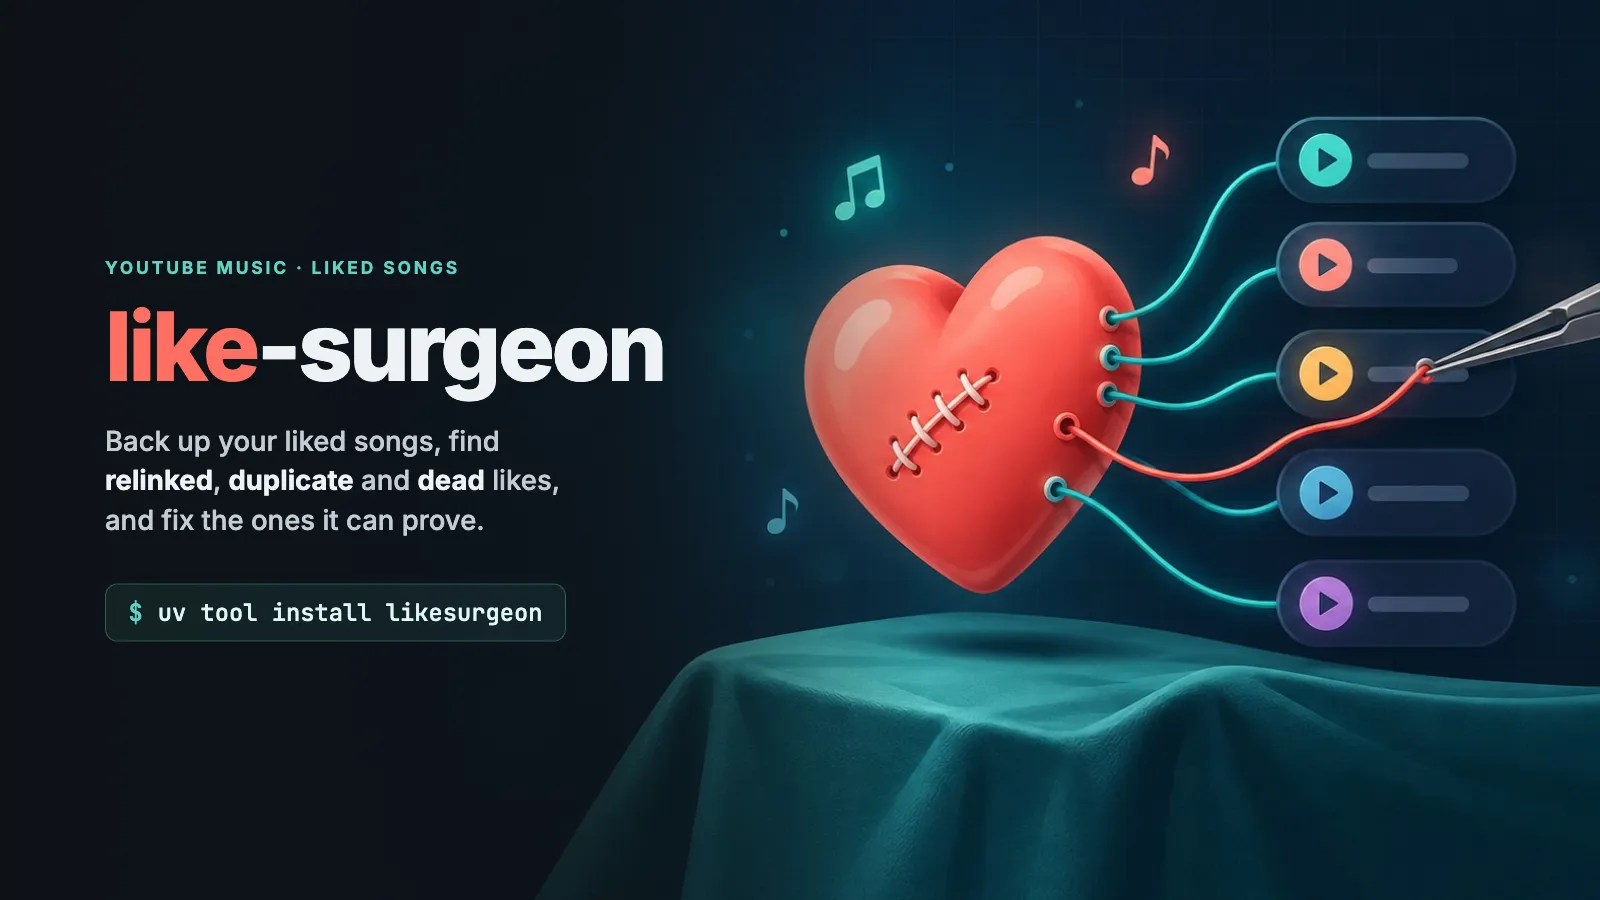
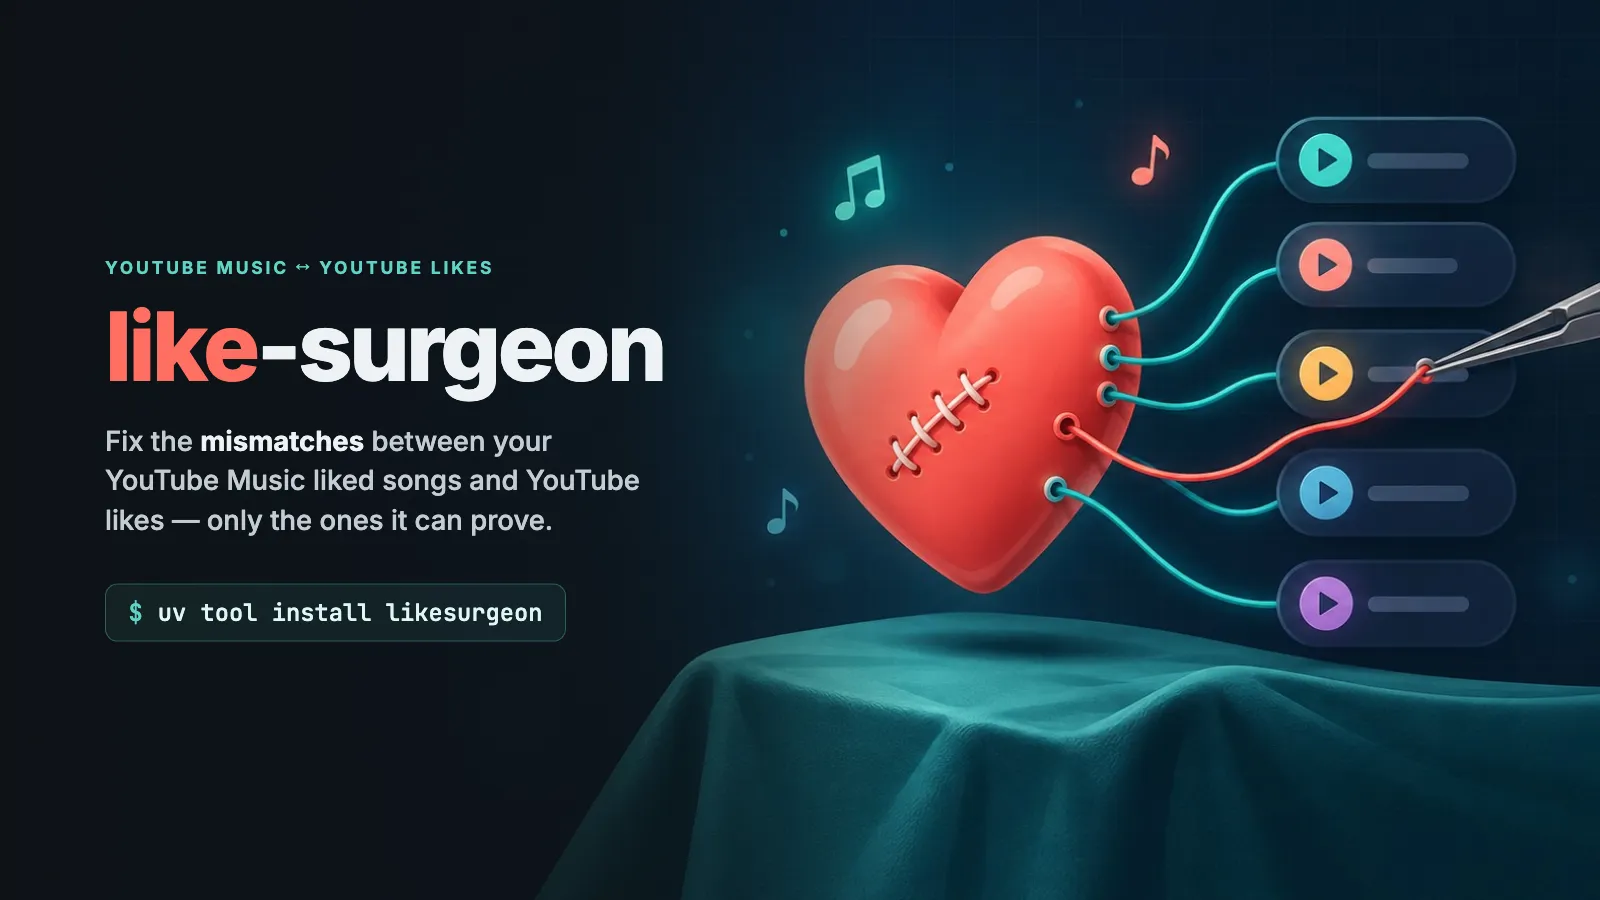
docs(projects): like-surgeon leads with fixing like mismatches, adds 0.12 relike
Description and opening paragraph put the YouTube / YT Music mismatch first
and backup second; the writes section covers the opt-in relike and the
hand run behind it. Card and social image re-rendered with the new tagline.

Changed region(s): [[0.0625, 0.4667, 0.4062, 0.5911], [0.1875, 0.28, 0.3125, 0.3111]]

diff --git a/_projects/like-surgeon.md b/_projects/like-surgeon.md
@@ -1,7 +1,7 @@
 ---
 layout: project
 title: "like-surgeon"
-description: "Local-first CLI that backs up your YouTube Music liked songs, finds relinked, duplicate and dead likes, and fixes the ones it can prove."
+description: "Fix the mismatches between your YouTube Music liked songs and YouTube likes — swapped, duplicated, missing and dead songs. A local CLI that fixes only what it can prove."
 tech_stack: ["Python", "ytmusicapi", "YouTube Data API v3", "SQLite", "SQLAlchemy", "Typer", "Rich"]
 github_url: "https://github.com/zeikar/like-surgeon"
 demo_url: "https://pypi.org/project/likesurgeon/"
@@ -12,7 +12,7 @@ gadget_no: 15
 date: 2026-05-05
 ---
 
-like-surgeon keeps a local backup of my YouTube Music liked songs and repairs the ones that quietly broke: songs YT Music swapped for another release, songs that show up twice, likes on videos that no longer exist. It scans YouTube Music and YouTube into SQLite, keeps every scan as a snapshot, works out which YouTube like is behind each song, and fixes only what it can prove. It's on PyPI as `likesurgeon`.
+like-surgeon fixes the YouTube Music liked songs that quietly stopped matching my YouTube likes: songs YT Music swapped for another release, songs that show up twice, music it never shows, likes left on videos that no longer exist. It scans YouTube Music and YouTube into SQLite, keeps every scan as a snapshot (the backup YouTube Music doesn't offer), works out which YouTube like is behind each song, and fixes only what it can prove. It's on PyPI as `likesurgeon`.
 
 ## Liked songs is a view, not a second list
 
@@ -22,9 +22,11 @@ Up to 0.10 the tool treated YouTube's Liked videos and YT Music's Liked songs as
 
 YT Music never says which like backs an entry; its feedback tokens are opaque. What it does keep is order: in my library, all 1,142 non-duplicate Liked songs entries sit in the same order as Liked videos, where a shuffled list would keep about 62. So `compare-likes` lines the two lists up by position. Entries whose video is itself liked on YouTube become anchors, trimmed to the longest increasing subsequence of their positions, since a greedy pass collapsed on real data. Between anchors the leftover entries pair up in order, but only when both sides have the same count; every other gap is reported and left alone. Titles never decide a pair. They only show up in a same-recording check (duration within 3 seconds, plus the same channel or overlapping titles) before a repoint.
 
-## Two writes, each checked against the whole list
+## Three writes, each checked against the whole list
 
-`sync` makes two kinds of change, both on YouTube. A *repoint* likes the playable track, confirms the rating, then unlikes the dead original and confirms again. An *unlike shadow* removes the extra like that made a song appear twice. After each one it re-reads the entire Liked songs list: a repoint must leave it unchanged, an unlike must remove exactly one copy. If the list doesn't match, it reads again 15 seconds later, then re-likes the original, undoes any like it added, and stops the run, because a mismatch means the alignment itself may be wrong. Every write is recorded in SQLite as it happens, so an interrupted run still shows what it left behind.
+`sync` makes three kinds of change, all on YouTube. A *repoint* likes the playable track, confirms the rating, then unlikes the dead original and confirms again. An *unlike shadow* removes the extra like that made a song appear twice. After each one it re-reads the entire Liked songs list: a repoint must leave it unchanged, an unlike must remove exactly one copy. If the list doesn't match, it reads again 15 seconds later, then re-likes the original, undoes any like it added, and stops the run, because a mismatch means the alignment itself may be wrong. Every write is recorded in SQLite as it happens, so an interrupted run still shows what it left behind.
+
+The third, added in 0.12, is opt-in. A *relike* unlikes and re-likes a video that looks like music but that YT Music never shows, which gives YT Music another chance to list it. A re-like moves the video to the top of both lists, so it works oldest first. Its check expects nothing removed and at most one entry added; anything else stops the run. I tried it by hand before building it: of 26 such videos, 18 showed up in Liked songs and nothing else moved.
 
 It never presses YT Music's own like button. That button sets the same rating as YouTube's: liking appends a duplicate entry, and un-liking can take the YouTube like with it.
 
